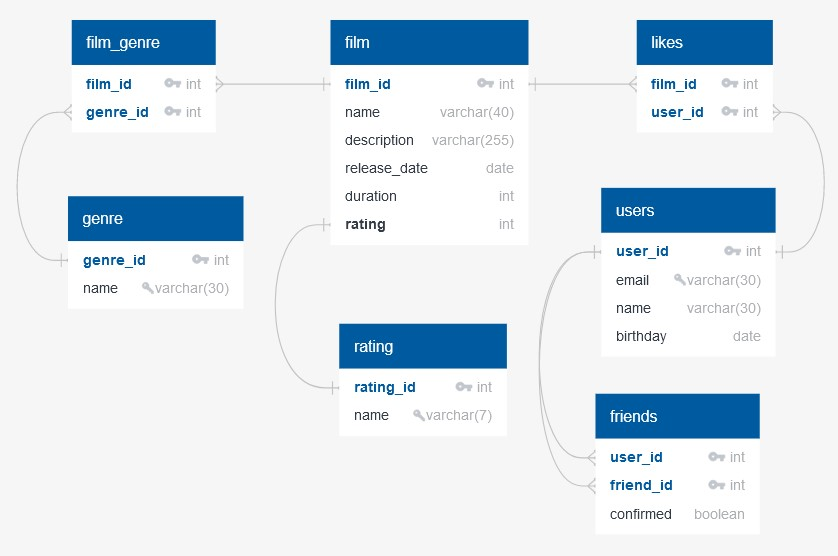
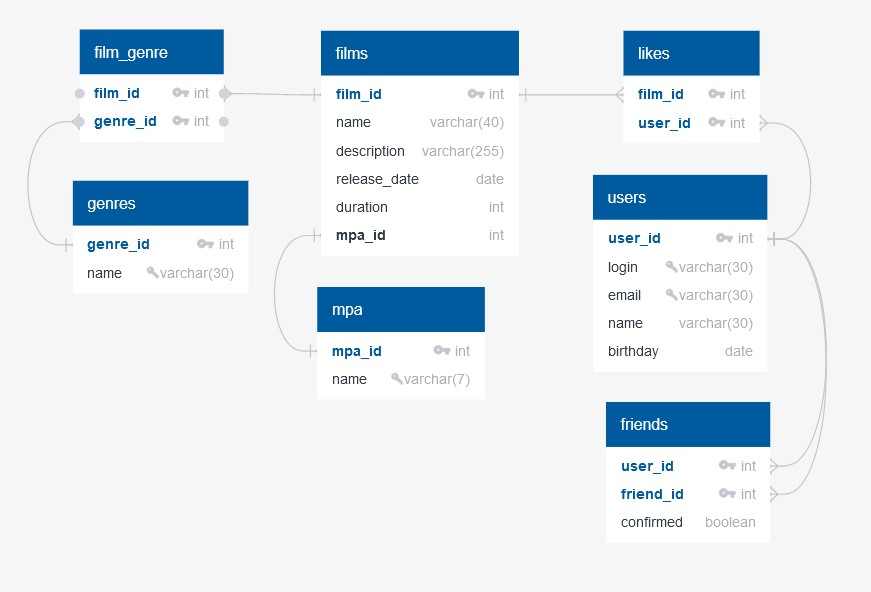
промежуточное задание спринт 11

diff --git a/src/test/java/ru/yandex/practicum/filmorate/integration/user/FriendshipDbIntegrationTest.java b/src/test/java/ru/yandex/practicum/filmorate/integration/user/FriendshipDbIntegrationTest.java
@@ -1,20 +1,18 @@
 package ru.yandex.practicum.filmorate.integration.user;
 
-import lombok.RequiredArgsConstructor;
 import org.junit.jupiter.api.AfterEach;
-import org.junit.jupiter.api.BeforeEach;
 import org.junit.jupiter.api.Test;
 import org.springframework.beans.factory.annotation.Autowired;
 import org.springframework.boot.test.autoconfigure.jdbc.AutoConfigureTestDatabase;
 import org.springframework.boot.test.context.SpringBootTest;
+import ru.yandex.practicum.filmorate.model.Friendship;
 import ru.yandex.practicum.filmorate.model.User;
 import ru.yandex.practicum.filmorate.storage.dao.FriendStorage;
-import ru.yandex.practicum.filmorate.storage.dao.LikeStorage;
 import ru.yandex.practicum.filmorate.storage.dao.impl.UserDbStorage;
-
+import static org.assertj.core.api.Assertions.assertThat;
 import java.time.LocalDate;
-
-import static org.junit.jupiter.api.Assertions.*;
+import java.util.List;
+import java.util.Optional;
 
 @SpringBootTest
 @AutoConfigureTestDatabase
@@ -29,14 +27,10 @@ class FriendshipDbIntegrationTest {
     public FriendshipDbIntegrationTest(FriendStorage friendStorage, UserDbStorage userDbStorage) {
         this.friendStorage = friendStorage;
         userStorage = userDbStorage;
+        userStorage.deleteAll();
         setUsersForDefaults();
         userStorage.save(user);
         userStorage.save(friend);
-    }
-
-    @BeforeEach
-    void beforeEach() {
-        setUsersForDefaults();
     }
 
     @AfterEach
@@ -45,31 +39,86 @@ class FriendshipDbIntegrationTest {
     }
 
     @Test
-    void save() {
+    void testSaveAndFindFriendsId() {
+        final Friendship friendship = new Friendship(user.getId(), friend.getId());
+
+        friendStorage.save(friendship);
+
+        final List<Long> friendsForUser = friendStorage.findFriendsIdByUserId(user.getId());
+        final  List<Long> friendsForFriend = friendStorage.findFriendsIdByUserId(friend.getId());
+
+        assertThat(friendsForUser)
+                .isNotNull()
+                .isNotEmpty()
+                .hasSize(1)
+                .contains(friend.getId());
+        assertThat(friendsForFriend)
+                .isNotNull()
+                .isEmpty();
     }
 
     @Test
-    void findAllById() {
+    void testFindFriendship() {
+        final Friendship friendship = new Friendship(user.getId(), friend.getId());
+        final Friendship inverseFriendship = new Friendship(friend.getId(), user.getId());
+        friendStorage.save(friendship);
+
+        final Optional<Friendship> optionalFriendship = friendStorage.find(inverseFriendship);
+
+        assertThat(optionalFriendship)
+                .hasValueSatisfying(friendShip ->
+                        assertThat(friendShip)
+                                .hasFieldOrPropertyWithValue("userId", user.getId())
+                                .hasFieldOrPropertyWithValue("friendId", friend.getId()));
     }
 
     @Test
-    void findById() {
+    void testCancelFriendship() {
+        final Friendship friendship = new Friendship(user.getId(), friend.getId());
+        final Friendship inverseFriendship = new Friendship(friend.getId(), user.getId());
+        friendStorage.save(friendship);
+        assertThat(friendStorage.find(friendship)).isPresent();
+
+        friendStorage.cancel(friendship);
+
+        assertThat(friendStorage.find(friendship)).isNotPresent();
+        assertThat(friendStorage.find(inverseFriendship)).isNotPresent();
     }
 
     @Test
-    void deleteById() {
+    void testIsExist() {
+        final Friendship friendship = new Friendship(user.getId(), friend.getId());
+        final Friendship inverseFriendship = new Friendship(friend.getId(), user.getId());
+        friendStorage.save(friendship);
+
+        final boolean areFriends = friendStorage.isExist(friendship);
+
+        assertThat(areFriends).isTrue();
+        assertThat(friendStorage.isExist(inverseFriendship)).isTrue();
     }
 
     @Test
-    void isExist() {
+    void testIsNotConfirmed() {
+        final Friendship friendship = new Friendship(user.getId(), friend.getId());
+        final Friendship inverseFriendship = new Friendship(friend.getId(), user.getId());
+        friendStorage.save(friendship);
+
+        final boolean isConfirmed = friendStorage.isConfirmed(friendship);
+
+        assertThat(isConfirmed).isFalse();
+        assertThat(friendStorage.isConfirmed(inverseFriendship)).isFalse();
     }
 
     @Test
-    void isConfirmed() {
-    }
+    void testConfirm() {
+        final Friendship friendship = new Friendship(user.getId(), friend.getId());
+        final Friendship inverseFriendship = new Friendship(friend.getId(), user.getId());
+        friendStorage.save(friendship);
 
-    @Test
-    void confirm() {
+        friendStorage.confirm(inverseFriendship);
+
+        assertThat(friendStorage.isConfirmed(friendship)).isTrue();
+        assertThat(friendStorage.isConfirmed(inverseFriendship)).isTrue();
     }
 
     static void setUsersForDefaults() {

diff --git a/src/main/java/ru/yandex/practicum/filmorate/service/impl/UserServiceImpl.java b/src/main/java/ru/yandex/practicum/filmorate/service/impl/UserServiceImpl.java
@@ -83,7 +83,7 @@ public class UserServiceImpl implements UserService {
         validateId(friendId);
         Friendship friendship = new Friendship(userId, friendId);
         if (friendStorage.isExist(friendship)) {
-            friendStorage.deleteById(friendship);
+            friendStorage.cancel(friendship);
             log.info("Пользователь: id={} и пользователь: id={} больше не являются друзьями", userId, friendId);
         } else {
             throw new UserNotFoundException("Пользователь не является вашим другом");
@@ -95,7 +95,7 @@ public class UserServiceImpl implements UserService {
     public List<User> getAllFriends(long userId) {
         validateId(userId);
         log.debug("Запрошен список друзей для пользователя: id={}", userId);
-        return userStorage.findAllById(friendStorage.findAllById(userId));
+        return userStorage.findAllById(friendStorage.findFriendsIdByUserId(userId));
     }
 
     @Override
@@ -103,8 +103,8 @@ public class UserServiceImpl implements UserService {
         validateId(userId);
         validateId(otherId);
         log.debug("Запрос общих друзей для пользователей: id={} и id={}", userId, otherId);
-        Collection<Long> friendsId = friendStorage.findAllById(userId);
-        List<Long> commonId = friendStorage.findAllById(otherId)
+        Collection<Long> friendsId = friendStorage.findFriendsIdByUserId(userId);
+        List<Long> commonId = friendStorage.findFriendsIdByUserId(otherId)
                 .stream()
                 .filter(friendsId::contains)
                 .collect(Collectors.toList());

diff --git a/src/test/java/ru/yandex/practicum/filmorate/unit/film/FilmServiceTest.java b/src/test/java/ru/yandex/practicum/filmorate/unit/film/FilmServiceTest.java
@@ -25,6 +25,9 @@ import ru.yandex.practicum.filmorate.model.User;
 import ru.yandex.practicum.filmorate.service.UserService;
 import ru.yandex.practicum.filmorate.storage.FilmStorage;
 import ru.yandex.practicum.filmorate.service.impl.FilmServiceImpl;
+import ru.yandex.practicum.filmorate.storage.dao.FilmGenreStorage;
+import ru.yandex.practicum.filmorate.storage.dao.LikeStorage;
+
 import java.time.LocalDate;
 import java.util.*;
 
@@ -36,6 +39,11 @@ class FilmServiceTest {
     FilmStorage filmStorage;
     @Mock
     UserService userService;
+    @Mock
+    FilmGenreStorage filmGenreStorage;
+    @Mock
+    LikeStorage likeStorage;
+
     @InjectMocks
     FilmServiceImpl filmService;
     static Film firstFilm;
@@ -296,7 +304,7 @@ class FilmServiceTest {
     static void settingsForDefaults() {
         tempContainer[0] = null;
 
-        firstFilm.setId(random.nextInt(32) + 1);
+        firstFilm.setId(0);
         firstFilm.setName("First film");
         firstFilm.setDescription("Description first");
         firstFilm.setReleaseDate(LocalDate.of(2000, 1, 1));
@@ -304,7 +312,7 @@ class FilmServiceTest {
         firstFilm.setMpa(new Mpa(1));
         firstFilm.clearLikes();
 
-        secondFilm.setId(firstFilm.getId() + 1);
+        secondFilm.setId(0);
         secondFilm.setName("Second film");
         secondFilm.setDescription("Description second");
         secondFilm.setReleaseDate(LocalDate.of(2020, 2, 2));
@@ -312,7 +320,7 @@ class FilmServiceTest {
         secondFilm.setMpa(new Mpa(2));
         secondFilm.clearLikes();
 
-        user.setId(random.nextInt(32) + 1);
+        user.setId(0);
         user.setEmail("ivan2000@yandex.ru");
         user.setLogin("Ivan2000");
         user.setName("Ivan");

diff --git a/src/main/java/ru/yandex/practicum/filmorate/storage/dao/impl/FriendshipDbStorage.java b/src/main/java/ru/yandex/practicum/filmorate/storage/dao/impl/FriendshipDbStorage.java
@@ -37,7 +37,7 @@ public class FriendshipDbStorage implements FriendStorage {
     }
 
     @Override
-    public List<Long> findAllById(long id) {
+    public List<Long> findFriendsIdByUserId(long id) {
         var sqlQuery = "SELECT friend_id FROM friends WHERE user_id = :id " +
                         "UNION SELECT user_id FROM friends WHERE friend_id = :id AND confirmed = true";
         var idParam = new MapSqlParameterSource("id", id);
@@ -45,7 +45,7 @@ public class FriendshipDbStorage implements FriendStorage {
     }
 
     @Override
-    public Optional<Friendship> findById(Friendship friendship) {
+    public Optional<Friendship> find(Friendship friendship) {
         var sqlQuery = "SELECT * from friends WHERE (user_id = :userId AND friend_id = :friendId) " +
                                                 "OR (user_id = :friendId AND friend_id = :userId)";
         var friendParams = new BeanPropertySqlParameterSource(friendship);
@@ -58,7 +58,7 @@ public class FriendshipDbStorage implements FriendStorage {
     }
 
     @Override
-    public void deleteById(Friendship friendship) {
+    public void cancel(Friendship friendship) {
         var sqlQuery = "DELETE FROM friends WHERE user_id = :userId AND friend_id = :friendId " +
                                               "OR user_id = :friendId AND friend_id = :userId";
         var friendParams = new BeanPropertySqlParameterSource(friendship);
@@ -67,7 +67,7 @@ public class FriendshipDbStorage implements FriendStorage {
 
     @Override
     public boolean isExist(Friendship friendship) {
-        return findById(friendship).isPresent();
+        return find(friendship).isPresent();
     }
 
     @Override

diff --git a/src/main/java/ru/yandex/practicum/filmorate/storage/dao/impl/FilmDbStorage.java b/src/main/java/ru/yandex/practicum/filmorate/storage/dao/impl/FilmDbStorage.java
@@ -28,10 +28,10 @@ public class FilmDbStorage implements FilmStorage {
         var keyHolder = new GeneratedKeyHolder();
         if (film.getId() == 0) {
             sqlQuery = "INSERT INTO films (name, description, release_date, duration, mpa_id) " +
-                    "VALUES (:name, :description, :releaseDate, :duration, :mpaId)";
+                                    "VALUES (:name, :description, :releaseDate, :duration, :mpaId)";
         } else {
             sqlQuery = "UPDATE films SET name = :name, description = :description, release_date = :releaseDate, " +
-                    "duration = :duration, mpa_id = :mpaId WHERE film_id = :id";
+                                          "duration = :duration, mpa_id = :mpaId WHERE film_id = :id";
         }
         var filmParams = new MapSqlParameterSource()
                 .addValue("id", film.getId())

diff --git a/src/main/java/ru/yandex/practicum/filmorate/storage/dao/FriendStorage.java b/src/main/java/ru/yandex/practicum/filmorate/storage/dao/FriendStorage.java
@@ -8,11 +8,11 @@ public interface FriendStorage {
 
     Friendship save(Friendship friendship);
 
-    Optional<Friendship> findById(Friendship friendship);
+    Optional<Friendship> find(Friendship friendship);
 
-    List<Long> findAllById(long id);
+    List<Long> findFriendsIdByUserId(long id);
 
-    void deleteById(Friendship friendship);
+    void cancel(Friendship friendship);
 
     boolean isExist(Friendship friendship);
 

diff --git a/src/main/java/ru/yandex/practicum/filmorate/controller/GenreController.java b/src/main/java/ru/yandex/practicum/filmorate/controller/GenreController.java
@@ -1,7 +1,6 @@
 package ru.yandex.practicum.filmorate.controller;
 
 import org.springframework.beans.factory.annotation.Autowired;
-import org.springframework.http.HttpStatus;
 import org.springframework.web.bind.annotation.*;
 import ru.yandex.practicum.filmorate.model.Genre;
 import ru.yandex.practicum.filmorate.service.GenreService;

diff --git a/src/main/java/ru/yandex/practicum/filmorate/service/Validator.java b/src/main/java/ru/yandex/practicum/filmorate/service/Validator.java
@@ -3,7 +3,6 @@ package ru.yandex.practicum.filmorate.service;
 import ru.yandex.practicum.filmorate.exception.ValidationException;
 import ru.yandex.practicum.filmorate.model.Film;
 import ru.yandex.practicum.filmorate.model.User;
-
 import java.time.LocalDate;
 import static ru.yandex.practicum.filmorate.Constants.FIRST_FILM;
 

diff --git a/src/main/java/ru/yandex/practicum/filmorate/serialize/GenreDeserializer.java b/src/main/java/ru/yandex/practicum/filmorate/serialize/GenreDeserializer.java
@@ -1,6 +1,5 @@
 package ru.yandex.practicum.filmorate.serialize;
 
-import com.fasterxml.jackson.core.JacksonException;
 import com.fasterxml.jackson.core.JsonParser;
 import com.fasterxml.jackson.databind.DeserializationContext;
 import com.fasterxml.jackson.databind.JsonNode;

diff --git a/src/test/java/ru/yandex/practicum/filmorate/integration/user/UserDbIntegrationTest.java b/src/test/java/ru/yandex/practicum/filmorate/integration/user/UserDbIntegrationTest.java
@@ -27,6 +27,7 @@ class UserDbIntegrationTest {
     @BeforeEach
     void beforeEach() {
         setUsersForDefaults();
+        userStorage.deleteAll();
     }
 
     @AfterEach
